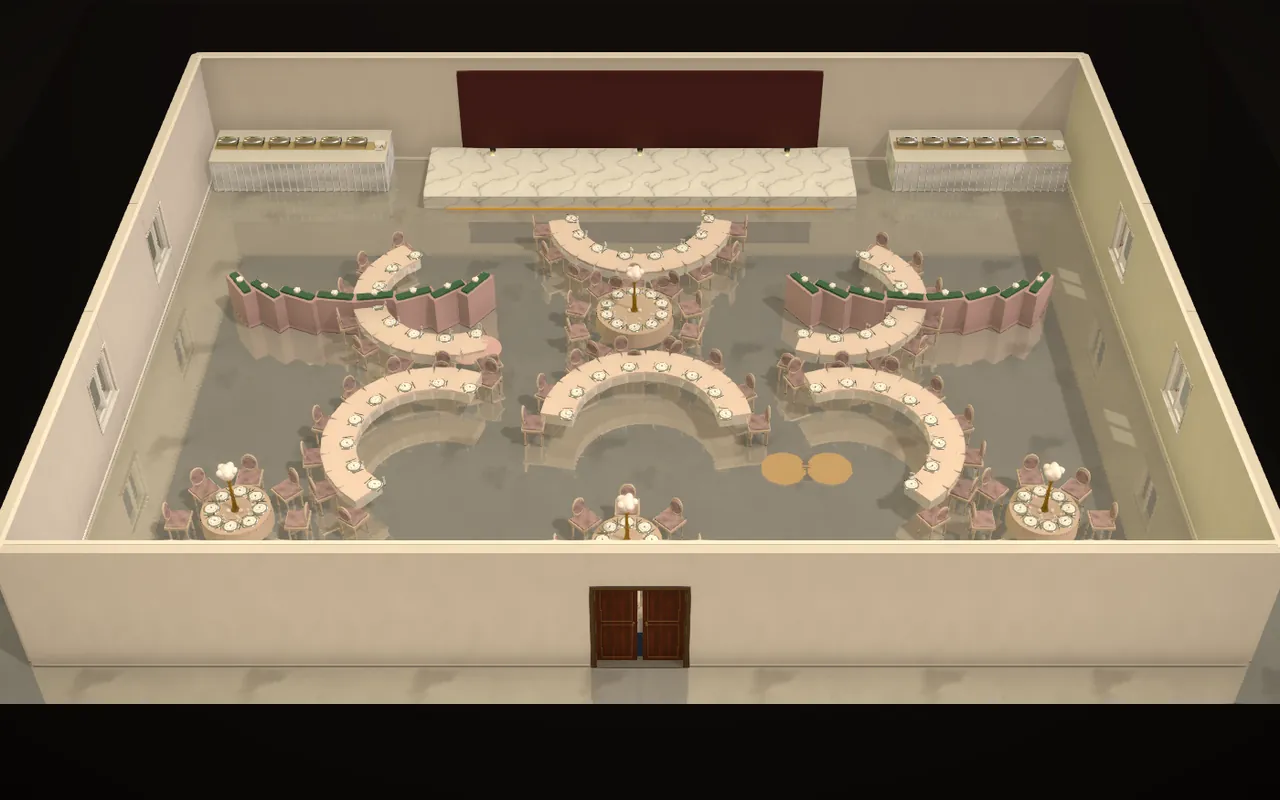
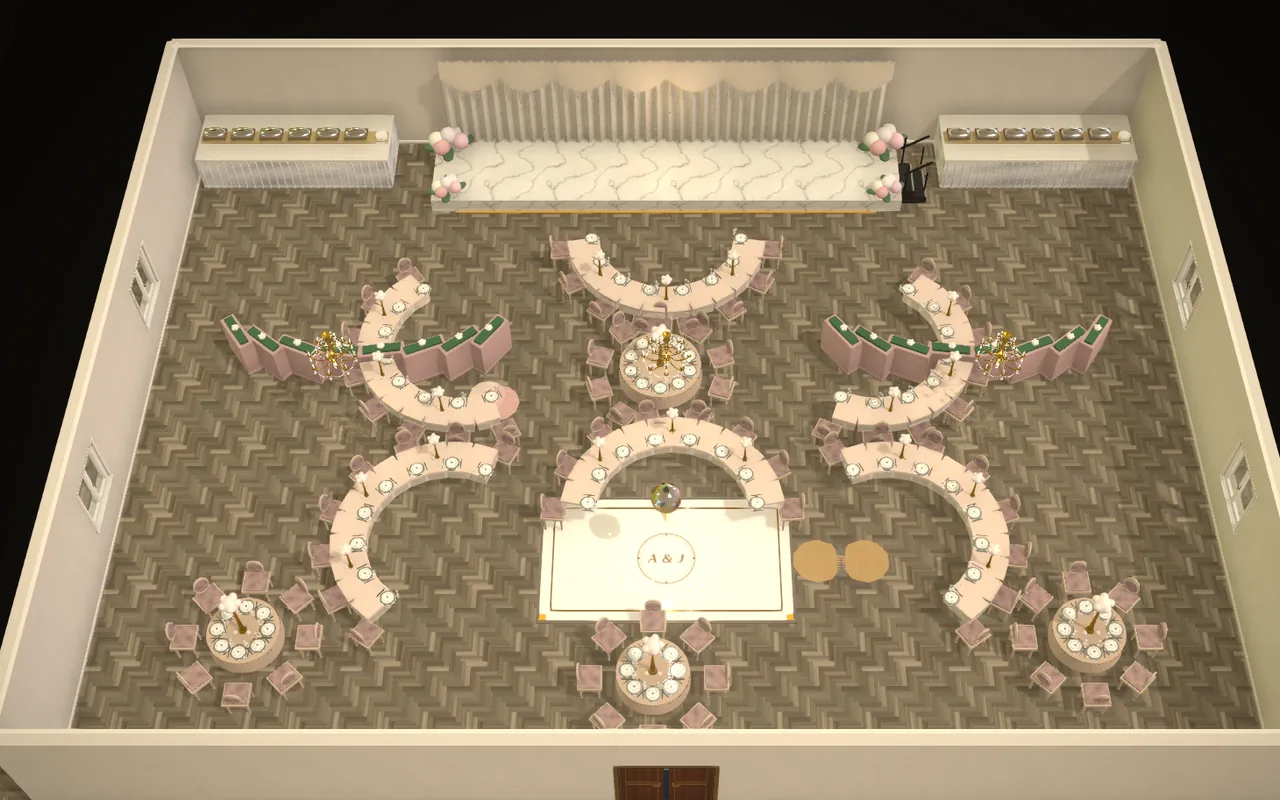
Accueil et Plans 3D : nouveau rendu de la salle de banquet, appartement témoin revu
- Aperçu « Visite 3D » de l’accueil : nouveau rendu (parquet en chevrons, scène drapée,
  piste de danse avec monogramme et boule à facettes, lustres en cristal).
- Appartement témoin : salle de bain équipée (baignoire encastrée, WC, vasque et
  sèche-serviettes laiton), entrée parquetée, tapis teintés, plantes en bac, jardin autour.
- Uplights, rideaux et plantes automatiques posés contre les murs réels : ils ne se
  retrouvent plus dehors quand les murs sont en retrait du plan.
- Repère d’orientation des zones (cône jaune) masqué en aperçu et en visite.
- Tapis épaissis pour rester visibles sur une zone de sol.

Claude-Session: https://claude.ai/code/session_013pZHjemUBEACkFmPXxf82J

diff --git a/frontend/src/lib/roomLayoutUtils.ts b/frontend/src/lib/roomLayoutUtils.ts
@@ -3414,7 +3414,8 @@ function buildShowFlatTemplate(): RoomLayoutBlueprint {
   const furniture: RoomLayoutBlueprint['furniture'] = [
     room('Chambre parentale', 5, 5, 28, 64, 'parquet', '#e2c9a2'),
     room('Dressing', 5, 64, 28, 95, 'parquet', '#e2c9a2'),
-    room('Salle de bain', 28, 64, 46, 95, 'marble', '#efe9df'),
+    room('Salle de bain', 28, 64, 46, 95, 'concrete', '#ddd3c4'),
+    room('Entrée', 46, 64, 58, 95, 'parquet', '#e2c9a2'),
     room('Séjour', 28, 5, 58, 64, 'parquet', '#e2c9a2'),
     room('Cuisine ouverte', 58, 5, 95, 95, 'parquet', '#e2c9a2'),
     {
@@ -3432,6 +3433,7 @@ function buildShowFlatTemplate(): RoomLayoutBlueprint {
   const bedCx = 5 + 0.5 + pctX(HOME_FURNITURE_META.bed.depthM) / 2;
   const fixtures: BlueprintFixture[] = [
     // chambre : lit tête contre le mur ouest, chevets, bureau face à la baie
+    { ...home('rug', bedCx + pctX(0.35), 32, 90, 'Tapis de chambre'), color: '#cdb99b' },
     home('bed', bedCx, 32, 90),
     home('nightstand', 5 + 0.6 + pctX(0.21), 32 - pctY(1.25), 90),
     home('nightstand', 5 + 0.6 + pctX(0.21), 32 + pctY(1.25), 90),
@@ -3440,11 +3442,13 @@ function buildShowFlatTemplate(): RoomLayoutBlueprint {
     // dressing ouvert le long de la cloison et du mur ouest
     home('wardrobe', 28 - 0.6 - pctX(0.31), 79, 270, 'Dressing'),
     home('wardrobe', 5 + 0.6 + pctX(0.31), 79, 90, 'Dressing'),
-    // salle de bain
-    home('bathtub', 34, 95 - 0.8 - pctY(0.4), 0),
-    home('vanity', 46 - 0.5 - pctX(0.25), 76, 270),
+    // salle de bain : baignoire encastrée au fond, WC contre la cloison, vasque laiton et sèche-serviettes
+    { ...home('bathtubBuiltIn', 35.5, 95 - 0.8 - pctY(0.375), 0), homeMetalFinish: 'brass' },
+    { ...home('toilet', 28 + 0.4 + pctX(0.33), 72, 90), homeMetalFinish: 'brass' },
+    { ...home('vanity', 46 - 0.5 - pctX(0.25), 76, 270), homeMetalFinish: 'brass' },
+    { ...home('towelRail', 37, 64 + 0.5 + pctY(0.08), 180), homeMetalFinish: 'brass' },
     // séjour : mur TV contre la salle de bain, canapé face à l’écran
-    home('rug', 43, 38, 0),
+    { ...home('rug', 43, 38, 0), color: '#b9a383' },
     home('tvUnit', 43, 64 - 0.6 - pctY(0.22), 180),
     {
       ...createBlueprintFixture('loungeSofa'),
@@ -3473,6 +3477,10 @@ function buildShowFlatTemplate(): RoomLayoutBlueprint {
       flowerType: 'boquet',
       flowerColor: '#7d8c62',
     },
+    // plantes en bac (coordonnées relatives au contour 5–95 %) : chambre, entrée et cuisine
+    landscapeFixture(canvas, { style: 'planter', x: 22, y: 59, w: pctX(0.9), h: pctY(0.4) }),
+    landscapeFixture(canvas, { style: 'planter', x: 52, y: 96, w: pctX(1.2), h: pctY(0.4) }),
+    landscapeFixture(canvas, { style: 'planter', x: 95, y: 3, w: pctX(1.2), h: pctY(0.4) }),
   ];
 
   return refreshBlueprintMetadata({
@@ -3491,6 +3499,9 @@ function buildShowFlatTemplate(): RoomLayoutBlueprint {
       lightingPreset: 'day',
       showRoof: false,
       dollhouseView: true,
+      // Jardin autour de la maquette plutôt qu’un fond uni ; pas d’uplights scéniques dans un logement.
+      outdoorSurroundings: 'garden',
+      showUplights: false,
     },
   });
 }

diff --git a/frontend/src/components/CatalogueAmbiance.tsx b/frontend/src/components/CatalogueAmbiance.tsx
@@ -143,16 +143,17 @@ export function RoomUplights({
               roughness={0.2}
             />
           </mesh>
-          <mesh position={[0, 0.12, 0]}>
-            <coneGeometry args={[0.2, 0.55, 16]} />
-            <meshStandardMaterial
-              color="#fef9c3"
+          {/* Halo discret sur le mur plutôt qu’un cône opaque, qui se voyait comme un objet posé. */}
+          <mesh position={[0, 0.5, 0]} rotation={[Math.PI, 0, 0]}>
+            <coneGeometry args={[0.22, 0.8, 16, 1, true]} />
+            <meshBasicMaterial
+              color="#fbbf24"
               transparent
-              opacity={0.15}
-              emissive="#fbbf24"
-              emissiveIntensity={0.45}
+              opacity={0.06}
+              blending={THREE.AdditiveBlending}
               depthWrite={false}
               side={THREE.DoubleSide}
+              toneMapped={false}
             />
           </mesh>
         </group>
@@ -255,11 +256,15 @@ export type RoomAmbianceFlags = {
   plants?: boolean;
 };
 
+/** Intérieur délimité par les murs (repère monde) : centre et dimensions en mètres. */
+export type RoomInteriorBox = { cx: number; cz: number; w: number; d: number };
+
 export function RoomAmbiance({
   widthM,
   heightM,
   wallHeightM,
   flags,
+  interior,
   maxChandeliers = 3,
   maxUplights = 12,
   chandelierPointLights = true,
@@ -277,7 +282,10 @@ export function RoomAmbiance({
   chandelierType?: ChandelierType | string;
   chandelierCount?: number;
   curtainColor?: string;
+  /** Murs en retrait du plan : uplights, rideaux et plantes se posent contre leurs faces intérieures. */
+  interior?: RoomInteriorBox;
 }) {
+  const box = interior ?? { cx: 0, cz: 0, w: widthM, d: heightM };
   // Le nombre choisi est toujours respecté ; la qualité de rendu ne limite que les lampes réelles.
   const count = resolveChandelierCount(chandelierCount, 5);
   return (
@@ -293,13 +301,15 @@ export function RoomAmbiance({
           chandelierType={chandelierType}
         />
       ) : null}
-      {flags.uplights ? (
-        <RoomUplights widthM={widthM} heightM={heightM} maxCount={maxUplights} />
-      ) : null}
-      {flags.curtains ? (
-        <RoomCurtains widthM={widthM} heightM={heightM} wallHeightM={wallHeightM} color={curtainColor} />
-      ) : null}
-      {flags.plants ? <RoomCornerPlants widthM={widthM} heightM={heightM} /> : null}
+      <group position={[box.cx, 0, box.cz]}>
+        {flags.uplights ? (
+          <RoomUplights widthM={box.w} heightM={box.d} maxCount={maxUplights} />
+        ) : null}
+        {flags.curtains ? (
+          <RoomCurtains widthM={box.w} heightM={box.d} wallHeightM={wallHeightM} color={curtainColor} />
+        ) : null}
+        {flags.plants ? <RoomCornerPlants widthM={box.w} heightM={box.d} /> : null}
+      </group>
     </group>
   );
 }

diff --git a/frontend/src/components/RoomWebGLViewer.tsx b/frontend/src/components/RoomWebGLViewer.tsx
@@ -2478,10 +2478,13 @@ function ZoneMesh({
           ceilingY={ceilingM - thickness / 2}
         />
       ) : null}
-      <mesh position={[0, thickness + 0.04, -h * 0.35]} rotation={[-Math.PI / 2, 0, Math.PI]}>
-        <coneGeometry args={[Math.min(w, h) * 0.06, Math.min(w, h) * 0.14, 3]} />
-        <meshStandardMaterial color="#fef3c7" emissive="#f59e0b" emissiveIntensity={0.45} />
-      </mesh>
+      {/* Repère d’orientation : utile en édition, masqué en aperçu et en visite. */}
+      {!hideLabels && (
+        <mesh position={[0, thickness + 0.04, -h * 0.35]} rotation={[-Math.PI / 2, 0, Math.PI]}>
+          <coneGeometry args={[Math.min(w, h) * 0.06, Math.min(w, h) * 0.14, 3]} />
+          <meshStandardMaterial color="#fef3c7" emissive="#f59e0b" emissiveIntensity={0.45} />
+        </mesh>
+      )}
       {!hideLabels && (
         <Html zIndexRange={[20, 0]} center distanceFactor={12} style={{ pointerEvents: 'none' }} position={[0, thickness + 0.22, 0]}>
           <span className="text-xs font-bold text-background bg-foreground/85 px-1.5 py-0.5 rounded shadow-sm">{label}</span>
@@ -3593,6 +3596,30 @@ function SceneContent({
       })
       .filter((f) => Math.hypot(f.bx - f.ax, f.bz - f.az) > 0.3);
   }, [ledOn, walls, blueprint, widthM, heightM]);
+  /** Intérieur délimité par les murs extérieurs : les uplights et rideaux automatiques s’y posent, jamais dehors. */
+  const ambianceInterior = useMemo(() => {
+    const shown = walls.filter((w) => isStoryVisible(blueprint, w.storyId));
+    if (!shown.length) return undefined;
+    let x0 = Infinity;
+    let x1 = -Infinity;
+    let z0 = Infinity;
+    let z1 = -Infinity;
+    let t = 0;
+    for (const w of shown) {
+      for (const p of [w.start, w.end]) {
+        const [x, z] = pctToWorld(p.x, p.y, widthM, heightM);
+        x0 = Math.min(x0, x);
+        x1 = Math.max(x1, x);
+        z0 = Math.min(z0, z);
+        z1 = Math.max(z1, z);
+      }
+      t = Math.max(t, w.thicknessM);
+    }
+    const w = x1 - x0 - t;
+    const d = z1 - z0 - t;
+    if (w < 2 || d < 2) return undefined;
+    return { cx: (x0 + x1) / 2, cz: (z0 + z1) / 2, w, d };
+  }, [walls, blueprint, widthM, heightM]);
   /** Lustres automatiques : aucun dès qu’un lustre est posé sur un étage affiché. */
   const ambientChandeliers = ceilingChandelierCount(
     blueprint.metadata,
@@ -3928,6 +3955,7 @@ function SceneContent({
             plants: blueprint.metadata.showDecorPlants === true,
           }}
           curtainColor={blueprint.metadata.curtainColor}
+          interior={ambianceInterior}
           maxChandeliers={qualitySettings.maxChandeliers}
           maxUplights={qualitySettings.maxUplights}
           chandelierPointLights={qualitySettings.chandelierPointLights}

diff --git a/frontend/src/components/room/HomeFurnitureMeshes.tsx b/frontend/src/components/room/HomeFurnitureMeshes.tsx
@@ -303,10 +303,11 @@ function CoffeeTable({ w, d, color, selected }: Props) {
 function Rug({ w, d, color, selected }: Props) {
   return (
     <group>
-      <RoundedBox args={[w, 0.015, d]} radius={0.006} smoothness={2} position={[0, 0.0075, 0]} receiveShadow>
+      {/* 3 cm d’épaisseur : le tapis reste visible quand il est posé sur une zone (parquet, marbre…). */}
+      <RoundedBox args={[w, 0.03, d]} radius={0.01} smoothness={2} position={[0, 0.015, 0]} receiveShadow>
         <SurfaceMat color={tint(color ?? '#e9e0cf', selected)} finish="linen" />
       </RoundedBox>
-      <mesh position={[0, 0.016, 0]} rotation={[-Math.PI / 2, 0, 0]}>
+      <mesh position={[0, 0.031, 0]} rotation={[-Math.PI / 2, 0, 0]}>
         <ringGeometry args={[Math.min(w, d) * 0.32, Math.min(w, d) * 0.34, 48]} />
         <meshStandardMaterial color="#cdbb9a" roughness={1} />
       </mesh>

diff --git a/frontend/src/components/landing/LandingRoomEditorSection.tsx b/frontend/src/components/landing/LandingRoomEditorSection.tsx
@@ -28,7 +28,7 @@ const VIEWS = [
     id: '3d',
     label: 'Visite 3D',
     src: '/images/landing/editor/editeur-3d.webp',
-    alt: 'Vue 3D d’une salle de réception dressée, sol en marbre et lustres',
+    alt: 'Vue 3D d’une salle de mariage dressée : parquet en chevrons, scène drapée, piste de danse avec monogramme et lustres',
     caption: 'La même salle en 3D : matières, lumière et reflets, directement dans le navigateur.',
   },
   {
